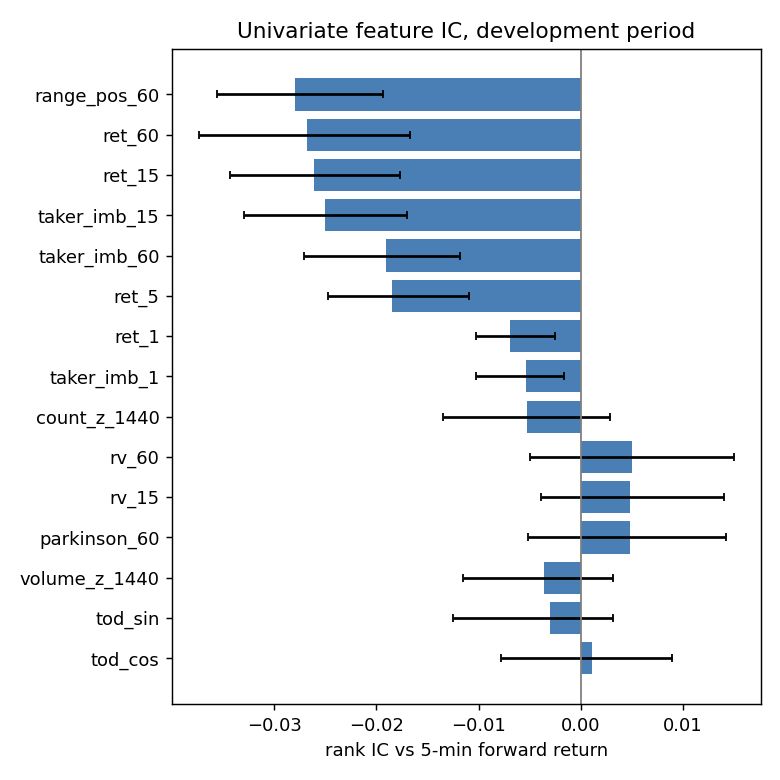
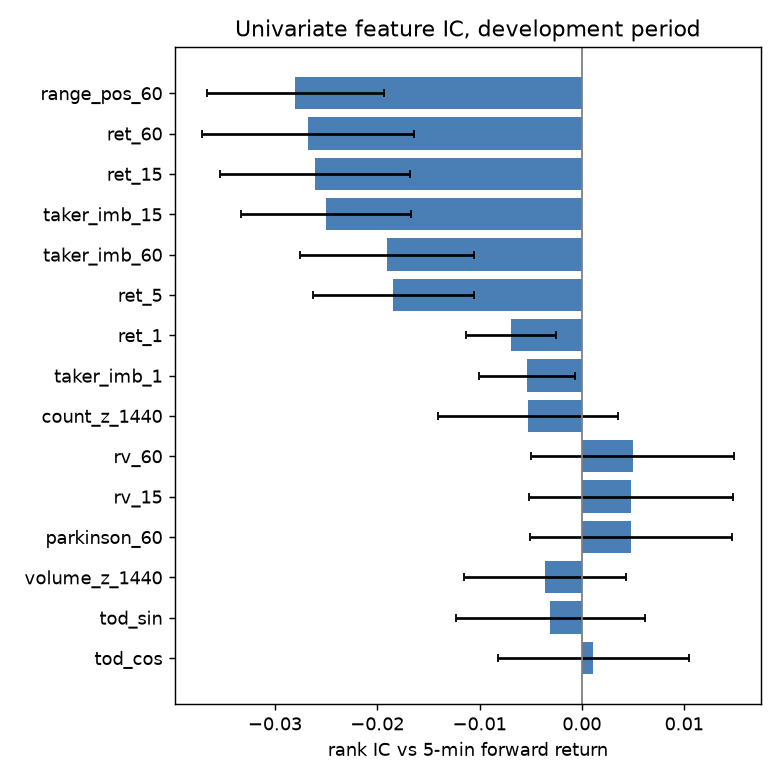
Regenerate results with corrected intervals (one borderline config reclassified)

diff --git a/results/RESULTS.md b/results/RESULTS.md
@@ -1,14 +1,14 @@
 # Results: BTCUSDT 1m, 2024-07 to 2025-06
 
-_Generated 2026-10-01 16:16 UTC by `python -m qsr.report` (commit `005e2af137ff2f4dc25fff52997522c50d767141`). Nothing in this file is hand-edited._
+_Generated 2026-10-06 20:44 UTC by `python -m qsr.report` (commit `92e67891e53be4c2adeb165ff2d40ef5004f4634`, dirty working tree). Nothing in this file is hand-edited._
 
 ## Verdict
 
-**Primary configuration** (`logit_all`, 5-minute horizon, delay 1): AUC 0.521 [0.512, 0.529], gross edge 0.15 bps [-0.03, 0.33] vs 40 bps round-trip fee -> **detectable, below cost hurdle**.
+**Primary configuration** (`logit_all`, 5-minute horizon, delay 1): AUC 0.521 [0.511, 0.530], gross edge 0.15 bps [-0.04, 0.34] vs 20 bps round-trip fee -> **detectable, below cost hurdle**.
 
-Of 18 model/horizon/delay configurations: 0 detectable, above cost hurdle; 15 detectable, below cost hurdle; 3 no detectable signal.
+Of 18 model/horizon/delay configurations: 0 detectable, above cost hurdle; 14 detectable, below cost hurdle; 4 no detectable signal.
 
-A configuration is **detectable** only if its holdout AUC interval excludes 0.5 at the Bonferroni-adjusted level 0.9972 (18 configurations tested, family-wise alpha 0.05). It is **above the cost hurdle** only if, in addition, the lower bound of gross edge per prediction exceeds the assumed round-trip cost of 40.0 bps (20.0 bps per side). Edge is a hurdle check, not a backtest; see docs/METHODOLOGY.md.
+A configuration is **detectable** only if its holdout AUC interval lies entirely above 0.5 at the Bonferroni-adjusted level 0.9972 (18 configurations tested, family-wise alpha 0.05). It is **above the cost hurdle** only if, in addition, the lower bound of gross edge per prediction exceeds the assumed round-trip cost of 20.0 bps (10.0 bps per side). Edge is a hurdle check, not a backtest; see docs/METHODOLOGY.md.
 
 ## Data
 
@@ -27,34 +27,34 @@ Largest gaps (start, missing bars): none
 
 ## Holdout (evaluated once)
 
-Holdout period: 2025-04-19 04:47:00+00:00 to 2025-06-30 23:58:00+00:00. Intervals: 0.9972 moving-block bootstrap, 300 resamples.
+Holdout period: 2025-04-19 04:47:00+00:00 to 2025-06-30 23:58:00+00:00. Intervals: 0.9972, normal approximation with a moving-block-bootstrap standard error (300 draws); see METHODOLOGY.md, "Interval construction".
 
 | model | h | delay | AUC [CI] | acc / majority | LL skill | rank IC [CI] | edge bps [CI] | verdict |
 |---|---|---|---|---|---|---|---|---|
 | base_rate | 1 | 0 | 0.500 [0.500, 0.500] | 0.499 / 0.501 | 0.0000 | n/a [n/a, n/a] | -0.02 [-0.06, 0.02] | baseline |
-| logit_ret1 | 1 | 0 | 0.493 [0.489, 0.499] | 0.496 / 0.501 | -0.0000 | -0.012 [-0.021, -0.003] | -0.08 [-0.12, -0.05] | no detectable signal |
-| logit_all | 1 | 0 | 0.519 [0.514, 0.525] | 0.514 / 0.501 | 0.0008 | 0.032 [0.024, 0.041] | 0.08 [0.04, 0.12] | detectable, below cost hurdle |
-| hgb_all | 1 | 0 | 0.530 [0.524, 0.535] | 0.518 / 0.501 | 0.0023 | 0.044 [0.035, 0.051] | 0.09 [0.05, 0.13] | detectable, below cost hurdle |
+| logit_ret1 | 1 | 0 | 0.493 [0.488, 0.499] | 0.496 / 0.501 | -0.0000 | -0.012 [-0.022, -0.002] | -0.08 [-0.13, -0.04] | no detectable signal |
+| logit_all | 1 | 0 | 0.519 [0.514, 0.525] | 0.514 / 0.501 | 0.0008 | 0.032 [0.024, 0.040] | 0.08 [0.04, 0.12] | detectable, below cost hurdle |
+| hgb_all | 1 | 0 | 0.530 [0.524, 0.535] | 0.518 / 0.501 | 0.0023 | 0.044 [0.035, 0.052] | 0.09 [0.05, 0.14] | detectable, below cost hurdle |
 | base_rate | 1 | 1 | 0.500 [0.500, 0.500] | 0.499 / 0.501 | 0.0000 | n/a [n/a, n/a] | -0.02 [-0.06, 0.02] | baseline |
-| logit_ret1 | 1 | 1 | 0.506 [0.502, 0.511] | 0.504 / 0.501 | 0.0000 | 0.013 [0.006, 0.022] | 0.03 [-0.01, 0.07] | detectable, below cost hurdle |
-| logit_all | 1 | 1 | 0.511 [0.505, 0.516] | 0.508 / 0.501 | 0.0002 | 0.022 [0.012, 0.028] | 0.04 [-0.01, 0.08] | detectable, below cost hurdle |
-| hgb_all | 1 | 1 | 0.506 [0.501, 0.510] | 0.504 / 0.501 | -0.0002 | 0.011 [0.002, 0.019] | 0.01 [-0.03, 0.05] | detectable, below cost hurdle |
-| base_rate | 5 | 0 | 0.500 [0.500, 0.500] | 0.499 / 0.501 | 0.0000 | n/a [n/a, n/a] | -0.11 [-0.30, 0.08] | baseline |
-| logit_ret1 | 5 | 0 | 0.498 [0.493, 0.502] | 0.497 / 0.501 | 0.0000 | -0.000 [-0.008, 0.007] | -0.08 [-0.17, 0.02] | no detectable signal |
-| logit_all | 5 | 0 | 0.522 [0.512, 0.531] | 0.514 / 0.501 | 0.0010 | 0.043 [0.025, 0.062] | 0.16 [-0.03, 0.33] | detectable, below cost hurdle |
-| hgb_all | 5 | 0 | 0.522 [0.514, 0.530] | 0.516 / 0.501 | 0.0008 | 0.039 [0.024, 0.052] | 0.18 [0.03, 0.34] | detectable, below cost hurdle |
-| base_rate | 5 | 1 | 0.500 [0.500, 0.500] | 0.499 / 0.501 | 0.0000 | n/a [n/a, n/a] | -0.11 [-0.32, 0.11] | baseline |
-| logit_ret1 | 5 | 1 | 0.502 [0.498, 0.507] | 0.502 / 0.501 | 0.0000 | 0.011 [0.002, 0.019] | 0.06 [-0.03, 0.15] | no detectable signal |
-| logit_all | 5 | 1 | 0.521 [0.512, 0.529] | 0.513 / 0.501 | 0.0009 | 0.040 [0.025, 0.056] | 0.15 [-0.03, 0.33] | detectable, below cost hurdle |
-| hgb_all | 5 | 1 | 0.518 [0.510, 0.526] | 0.512 / 0.501 | 0.0003 | 0.037 [0.020, 0.052] | 0.16 [-0.03, 0.34] | detectable, below cost hurdle |
-| base_rate | 15 | 0 | 0.500 [0.500, 0.500] | 0.503 / 0.503 | 0.0000 | n/a [n/a, n/a] | 0.33 [-0.24, 0.89] | baseline |
-| logit_ret1 | 15 | 0 | 0.505 [0.501, 0.510] | 0.506 / 0.503 | 0.0001 | 0.009 [0.001, 0.018] | 0.25 [-0.11, 0.59] | detectable, below cost hurdle |
-| logit_all | 15 | 0 | 0.531 [0.518, 0.544] | 0.522 / 0.503 | 0.0021 | 0.054 [0.025, 0.080] | 0.43 [-0.09, 0.86] | detectable, below cost hurdle |
-| hgb_all | 15 | 0 | 0.526 [0.514, 0.537] | 0.519 / 0.503 | 0.0008 | 0.046 [0.020, 0.067] | 0.39 [-0.11, 0.75] | detectable, below cost hurdle |
-| base_rate | 15 | 1 | 0.500 [0.500, 0.500] | 0.503 / 0.503 | 0.0000 | n/a [n/a, n/a] | 0.33 [-0.25, 0.80] | baseline |
-| logit_ret1 | 15 | 1 | 0.507 [0.503, 0.511] | 0.505 / 0.503 | 0.0001 | 0.013 [0.004, 0.021] | 0.28 [-0.05, 0.59] | detectable, below cost hurdle |
-| logit_all | 15 | 1 | 0.530 [0.518, 0.543] | 0.521 / 0.503 | 0.0019 | 0.052 [0.029, 0.078] | 0.46 [0.02, 0.94] | detectable, below cost hurdle |
-| hgb_all | 15 | 1 | 0.523 [0.511, 0.534] | 0.516 / 0.503 | 0.0003 | 0.041 [0.017, 0.066] | 0.39 [-0.08, 0.85] | detectable, below cost hurdle |
+| logit_ret1 | 1 | 1 | 0.506 [0.501, 0.511] | 0.504 / 0.501 | 0.0000 | 0.013 [0.004, 0.023] | 0.03 [-0.01, 0.07] | detectable, below cost hurdle |
+| logit_all | 1 | 1 | 0.511 [0.506, 0.516] | 0.508 / 0.501 | 0.0002 | 0.022 [0.013, 0.030] | 0.04 [-0.00, 0.08] | detectable, below cost hurdle |
+| hgb_all | 1 | 1 | 0.507 [0.501, 0.512] | 0.504 / 0.501 | -0.0001 | 0.011 [0.003, 0.019] | 0.01 [-0.04, 0.05] | detectable, below cost hurdle |
+| base_rate | 5 | 0 | 0.500 [0.500, 0.500] | 0.499 / 0.501 | 0.0000 | n/a [n/a, n/a] | -0.11 [-0.33, 0.11] | baseline |
+| logit_ret1 | 5 | 0 | 0.498 [0.493, 0.502] | 0.497 / 0.501 | 0.0000 | -0.000 [-0.009, 0.008] | -0.08 [-0.19, 0.02] | no detectable signal |
+| logit_all | 5 | 0 | 0.522 [0.512, 0.532] | 0.514 / 0.501 | 0.0010 | 0.043 [0.024, 0.061] | 0.16 [-0.02, 0.35] | detectable, below cost hurdle |
+| hgb_all | 5 | 0 | 0.522 [0.513, 0.531] | 0.515 / 0.501 | 0.0008 | 0.038 [0.021, 0.055] | 0.16 [-0.02, 0.33] | detectable, below cost hurdle |
+| base_rate | 5 | 1 | 0.500 [0.500, 0.500] | 0.499 / 0.501 | 0.0000 | n/a [n/a, n/a] | -0.11 [-0.32, 0.10] | baseline |
+| logit_ret1 | 5 | 1 | 0.502 [0.497, 0.507] | 0.502 / 0.501 | 0.0000 | 0.011 [0.001, 0.020] | 0.06 [-0.04, 0.16] | no detectable signal |
+| logit_all | 5 | 1 | 0.521 [0.511, 0.530] | 0.513 / 0.501 | 0.0009 | 0.040 [0.022, 0.059] | 0.15 [-0.04, 0.34] | detectable, below cost hurdle |
+| hgb_all | 5 | 1 | 0.518 [0.509, 0.527] | 0.511 / 0.501 | 0.0002 | 0.036 [0.018, 0.054] | 0.12 [-0.08, 0.32] | detectable, below cost hurdle |
+| base_rate | 15 | 0 | 0.500 [0.500, 0.500] | 0.503 / 0.503 | 0.0000 | n/a [n/a, n/a] | 0.33 [-0.31, 0.97] | baseline |
+| logit_ret1 | 15 | 0 | 0.505 [0.500, 0.511] | 0.506 / 0.503 | 0.0001 | 0.009 [-0.001, 0.019] | 0.25 [-0.13, 0.62] | no detectable signal |
+| logit_all | 15 | 0 | 0.531 [0.516, 0.546] | 0.522 / 0.503 | 0.0021 | 0.054 [0.024, 0.084] | 0.43 [-0.10, 0.96] | detectable, below cost hurdle |
+| hgb_all | 15 | 0 | 0.526 [0.512, 0.540] | 0.518 / 0.503 | 0.0006 | 0.046 [0.019, 0.073] | 0.38 [-0.11, 0.86] | detectable, below cost hurdle |
+| base_rate | 15 | 1 | 0.500 [0.500, 0.500] | 0.503 / 0.503 | 0.0000 | n/a [n/a, n/a] | 0.33 [-0.30, 0.96] | baseline |
+| logit_ret1 | 15 | 1 | 0.507 [0.502, 0.512] | 0.505 / 0.503 | 0.0001 | 0.013 [0.004, 0.023] | 0.28 [-0.10, 0.66] | detectable, below cost hurdle |
+| logit_all | 15 | 1 | 0.530 [0.516, 0.544] | 0.521 / 0.503 | 0.0019 | 0.052 [0.023, 0.081] | 0.46 [-0.06, 0.99] | detectable, below cost hurdle |
+| hgb_all | 15 | 1 | 0.523 [0.509, 0.536] | 0.516 / 0.503 | 0.0003 | 0.041 [0.013, 0.068] | 0.39 [-0.10, 0.87] | detectable, below cost hurdle |
 
 ## Walk-forward stability (development period)
 
@@ -63,27 +63,27 @@ Holdout period: 2025-04-19 04:47:00+00:00 to 2025-06-30 23:58:00+00:00. Interval
 | base_rate | 1 | 0 | 0.500 | 0.000 | 0.500 | -0.01 |
 | logit_ret1 | 1 | 0 | 0.498 | 0.008 | 0.489 | -0.04 |
 | logit_all | 1 | 0 | 0.510 | 0.003 | 0.506 | 0.03 |
-| hgb_all | 1 | 0 | 0.518 | 0.004 | 0.513 | 0.06 |
+| hgb_all | 1 | 0 | 0.518 | 0.004 | 0.514 | 0.07 |
 | base_rate | 1 | 1 | 0.500 | 0.000 | 0.500 | -0.01 |
 | logit_ret1 | 1 | 1 | 0.504 | 0.005 | 0.496 | 0.02 |
 | logit_all | 1 | 1 | 0.507 | 0.002 | 0.504 | 0.02 |
-| hgb_all | 1 | 1 | 0.507 | 0.002 | 0.504 | 0.03 |
+| hgb_all | 1 | 1 | 0.506 | 0.002 | 0.504 | 0.02 |
 | base_rate | 5 | 0 | 0.500 | 0.000 | 0.500 | 0.04 |
 | logit_ret1 | 5 | 0 | 0.501 | 0.003 | 0.497 | 0.02 |
 | logit_all | 5 | 0 | 0.518 | 0.002 | 0.515 | 0.12 |
-| hgb_all | 5 | 0 | 0.517 | 0.005 | 0.513 | 0.10 |
+| hgb_all | 5 | 0 | 0.518 | 0.005 | 0.513 | 0.12 |
 | base_rate | 5 | 1 | 0.500 | 0.000 | 0.500 | 0.04 |
 | logit_ret1 | 5 | 1 | 0.504 | 0.005 | 0.499 | 0.09 |
 | logit_all | 5 | 1 | 0.518 | 0.002 | 0.515 | 0.11 |
-| hgb_all | 5 | 1 | 0.516 | 0.004 | 0.509 | 0.07 |
+| hgb_all | 5 | 1 | 0.516 | 0.005 | 0.509 | 0.08 |
 | base_rate | 15 | 0 | 0.500 | 0.000 | 0.500 | 0.13 |
 | logit_ret1 | 15 | 0 | 0.505 | 0.002 | 0.503 | 0.04 |
 | logit_all | 15 | 0 | 0.525 | 0.006 | 0.517 | 0.25 |
-| hgb_all | 15 | 0 | 0.520 | 0.006 | 0.509 | 0.16 |
+| hgb_all | 15 | 0 | 0.520 | 0.006 | 0.510 | 0.19 |
 | base_rate | 15 | 1 | 0.500 | 0.000 | 0.500 | 0.13 |
 | logit_ret1 | 15 | 1 | 0.506 | 0.002 | 0.503 | 0.08 |
 | logit_all | 15 | 1 | 0.524 | 0.006 | 0.517 | 0.26 |
-| hgb_all | 15 | 1 | 0.519 | 0.006 | 0.510 | 0.17 |
+| hgb_all | 15 | 1 | 0.519 | 0.006 | 0.510 | 0.19 |
 
 ## Univariate feature IC (development period, h=5, delay 0)
 
@@ -91,21 +91,21 @@ Intervals at the Bonferroni level for 15 features. Diagnostic only: no model or 
 
 | feature | rank IC | CI |
 |---|---|---|
-| range_pos_60 | -0.0280 | [-0.0356, -0.0194] |
-| ret_60 | -0.0268 | [-0.0373, -0.0167] |
-| ret_15 | -0.0261 | [-0.0343, -0.0177] |
-| taker_imb_15 | -0.0250 | [-0.0330, -0.0170] |
-| taker_imb_60 | -0.0191 | [-0.0271, -0.0118] |
-| ret_5 | -0.0184 | [-0.0247, -0.0110] |
-| ret_1 | -0.0069 | [-0.0103, -0.0026] |
-| taker_imb_1 | -0.0054 | [-0.0102, -0.0017] |
-| count_z_1440 | -0.0053 | [-0.0135, 0.0029] |
-| rv_60 | 0.0050 | [-0.0050, 0.0150] |
-| rv_15 | 0.0048 | [-0.0039, 0.0140] |
-| parkinson_60 | 0.0048 | [-0.0052, 0.0142] |
-| volume_z_1440 | -0.0036 | [-0.0115, 0.0032] |
-| tod_sin | -0.0031 | [-0.0125, 0.0031] |
-| tod_cos | 0.0011 | [-0.0078, 0.0089] |
+| range_pos_60 | -0.0280 | [-0.0367, -0.0193] |
+| ret_60 | -0.0268 | [-0.0372, -0.0164] |
+| ret_15 | -0.0261 | [-0.0354, -0.0168] |
+| taker_imb_15 | -0.0250 | [-0.0333, -0.0167] |
+| taker_imb_60 | -0.0191 | [-0.0276, -0.0106] |
+| ret_5 | -0.0184 | [-0.0263, -0.0106] |
+| ret_1 | -0.0069 | [-0.0114, -0.0025] |
+| taker_imb_1 | -0.0054 | [-0.0101, -0.0006] |
+| count_z_1440 | -0.0053 | [-0.0140, 0.0035] |
+| rv_60 | 0.0050 | [-0.0050, 0.0149] |
+| rv_15 | 0.0048 | [-0.0051, 0.0148] |
+| parkinson_60 | 0.0048 | [-0.0051, 0.0147] |
+| volume_z_1440 | -0.0036 | [-0.0115, 0.0043] |
+| tod_sin | -0.0031 | [-0.0123, 0.0061] |
+| tod_cos | 0.0011 | [-0.0082, 0.0104] |
 
 ## Figures
 

diff --git a/README.md b/README.md
@@ -13,30 +13,30 @@ each configuration is assigned by a fixed rule rather than by interpretation.
 ## Result
 
 <!-- RESULTS:START -->
-_Auto-generated 2026-10-01 16:16 UTC from `results/RESULTS.md`; do not edit by hand._
+_Auto-generated 2026-10-06 20:44 UTC from `results/RESULTS.md`; do not edit by hand._
 
 **Data:** BTCUSDT 1m, 2024-07-01 to 2025-06-30, 525,600 bars, 0.0% missing. **Holdout:** 2025-04-19 to 2025-06-30.
 
-**Primary configuration** (`logit_all`, 5-minute horizon, delay 1): AUC 0.521 [0.512, 0.529], gross edge 0.15 bps [-0.03, 0.33] vs 40 bps round-trip fee -> **detectable, below cost hurdle**.
+**Primary configuration** (`logit_all`, 5-minute horizon, delay 1): AUC 0.521 [0.511, 0.530], gross edge 0.15 bps [-0.04, 0.34] vs 20 bps round-trip fee -> **detectable, below cost hurdle**.
 
-**All configurations:** Of 18 model/horizon/delay configurations: 0 detectable, above cost hurdle; 15 detectable, below cost hurdle; 3 no detectable signal.
+**All configurations:** Of 18 model/horizon/delay configurations: 0 detectable, above cost hurdle; 14 detectable, below cost hurdle; 4 no detectable signal.
 
 Holdout, 1-bar delay (the realistic case). Intervals are Bonferroni-adjusted.
 
 | model | h | delay | AUC [CI] | acc / majority | LL skill | rank IC [CI] | edge bps [CI] | verdict |
 |---|---|---|---|---|---|---|---|---|
 | base_rate | 1 | 1 | 0.500 [0.500, 0.500] | 0.499 / 0.501 | 0.0000 | n/a [n/a, n/a] | -0.02 [-0.06, 0.02] | baseline |
-| logit_ret1 | 1 | 1 | 0.506 [0.502, 0.511] | 0.504 / 0.501 | 0.0000 | 0.013 [0.006, 0.022] | 0.03 [-0.01, 0.07] | detectable, below cost hurdle |
-| logit_all | 1 | 1 | 0.511 [0.505, 0.516] | 0.508 / 0.501 | 0.0002 | 0.022 [0.012, 0.028] | 0.04 [-0.01, 0.08] | detectable, below cost hurdle |
-| hgb_all | 1 | 1 | 0.506 [0.501, 0.510] | 0.504 / 0.501 | -0.0002 | 0.011 [0.002, 0.019] | 0.01 [-0.03, 0.05] | detectable, below cost hurdle |
-| base_rate | 5 | 1 | 0.500 [0.500, 0.500] | 0.499 / 0.501 | 0.0000 | n/a [n/a, n/a] | -0.11 [-0.32, 0.11] | baseline |
-| logit_ret1 | 5 | 1 | 0.502 [0.498, 0.507] | 0.502 / 0.501 | 0.0000 | 0.011 [0.002, 0.019] | 0.06 [-0.03, 0.15] | no detectable signal |
-| logit_all | 5 | 1 | 0.521 [0.512, 0.529] | 0.513 / 0.501 | 0.0009 | 0.040 [0.025, 0.056] | 0.15 [-0.03, 0.33] | detectable, below cost hurdle |
-| hgb_all | 5 | 1 | 0.518 [0.510, 0.526] | 0.512 / 0.501 | 0.0003 | 0.037 [0.020, 0.052] | 0.16 [-0.03, 0.34] | detectable, below cost hurdle |
-| base_rate | 15 | 1 | 0.500 [0.500, 0.500] | 0.503 / 0.503 | 0.0000 | n/a [n/a, n/a] | 0.33 [-0.25, 0.80] | baseline |
-| logit_ret1 | 15 | 1 | 0.507 [0.503, 0.511] | 0.505 / 0.503 | 0.0001 | 0.013 [0.004, 0.021] | 0.28 [-0.05, 0.59] | detectable, below cost hurdle |
-| logit_all | 15 | 1 | 0.530 [0.518, 0.543] | 0.521 / 0.503 | 0.0019 | 0.052 [0.029, 0.078] | 0.46 [0.02, 0.94] | detectable, below cost hurdle |
-| hgb_all | 15 | 1 | 0.523 [0.511, 0.534] | 0.516 / 0.503 | 0.0003 | 0.041 [0.017, 0.066] | 0.39 [-0.08, 0.85] | detectable, below cost hurdle |
+| logit_ret1 | 1 | 1 | 0.506 [0.501, 0.511] | 0.504 / 0.501 | 0.0000 | 0.013 [0.004, 0.023] | 0.03 [-0.01, 0.07] | detectable, below cost hurdle |
+| logit_all | 1 | 1 | 0.511 [0.506, 0.516] | 0.508 / 0.501 | 0.0002 | 0.022 [0.013, 0.030] | 0.04 [-0.00, 0.08] | detectable, below cost hurdle |
+| hgb_all | 1 | 1 | 0.507 [0.501, 0.512] | 0.504 / 0.501 | -0.0001 | 0.011 [0.003, 0.019] | 0.01 [-0.04, 0.05] | detectable, below cost hurdle |
+| base_rate | 5 | 1 | 0.500 [0.500, 0.500] | 0.499 / 0.501 | 0.0000 | n/a [n/a, n/a] | -0.11 [-0.32, 0.10] | baseline |
+| logit_ret1 | 5 | 1 | 0.502 [0.497, 0.507] | 0.502 / 0.501 | 0.0000 | 0.011 [0.001, 0.020] | 0.06 [-0.04, 0.16] | no detectable signal |
+| logit_all | 5 | 1 | 0.521 [0.511, 0.530] | 0.513 / 0.501 | 0.0009 | 0.040 [0.022, 0.059] | 0.15 [-0.04, 0.34] | detectable, below cost hurdle |
+| hgb_all | 5 | 1 | 0.518 [0.509, 0.527] | 0.511 / 0.501 | 0.0002 | 0.036 [0.018, 0.054] | 0.12 [-0.08, 0.32] | detectable, below cost hurdle |
+| base_rate | 15 | 1 | 0.500 [0.500, 0.500] | 0.503 / 0.503 | 0.0000 | n/a [n/a, n/a] | 0.33 [-0.30, 0.96] | baseline |
+| logit_ret1 | 15 | 1 | 0.507 [0.502, 0.512] | 0.505 / 0.503 | 0.0001 | 0.013 [0.004, 0.023] | 0.28 [-0.10, 0.66] | detectable, below cost hurdle |
+| logit_all | 15 | 1 | 0.530 [0.516, 0.544] | 0.521 / 0.503 | 0.0019 | 0.052 [0.023, 0.081] | 0.46 [-0.06, 0.99] | detectable, below cost hurdle |
+| hgb_all | 15 | 1 | 0.523 [0.509, 0.536] | 0.516 / 0.503 | 0.0003 | 0.041 [0.013, 0.068] | 0.39 [-0.10, 0.87] | detectable, below cost hurdle |
 
 Delay-0 results, walk-forward stability and feature diagnostics: [results/RESULTS.md](results/RESULTS.md).
 <!-- RESULTS:END -->
@@ -86,8 +86,8 @@ make notebook                        # executes notebooks/01_signal_study.ipynb 
 ```
 
 `results/run_manifest.json` records the git commit, the SHA-256 of every input archive, the
-package versions and the full configuration. The full report takes roughly 15 to 25 minutes on a
-laptop for 12 months of data; most of that time goes to bootstrap intervals and gradient
+package versions and the full configuration. The full report took 11.7 minutes in the latest run and 43 in an earlier one, on the
+same laptop (WSL2, Core Ultra 7 155H), for 12 months of data; most of that time goes to bootstrap intervals and gradient
 boosting.
 
 ## Layout

diff --git a/docs/METHODOLOGY.md b/docs/METHODOLOGY.md
@@ -140,6 +140,14 @@ distributions are close to normal. It is about 5x more stable at the same cost, 
 with the expensive reference. `tests/test_evaluate.py` pins the stability property. The
 percentile method remains available (`method="percentile"`) for comparison.
 
+**Effect on the published results.** Re-running the study with the corrected intervals moved
+one configuration: `logit_ret1`, 15-minute horizon, delay 0, went from AUC 0.505 [0.501, 0.510],
+"detectable", to 0.505 [0.500, 0.511], "no detectable signal". The tally went from 15 to 14
+detectable configurations, and from 3 to 4 with no detectable signal. The point estimate did not
+move. Only the interval widened, enough to touch 0.5. Nothing crossed the cost hurdle under
+either method. The primary configuration is detectable under both: AUC 0.521 [0.512, 0.529]
+before, [0.511, 0.530] after.
+
 ## 9. Verdict rule
 
 The verdict column is computed mechanically, so no result can be described more strongly than
